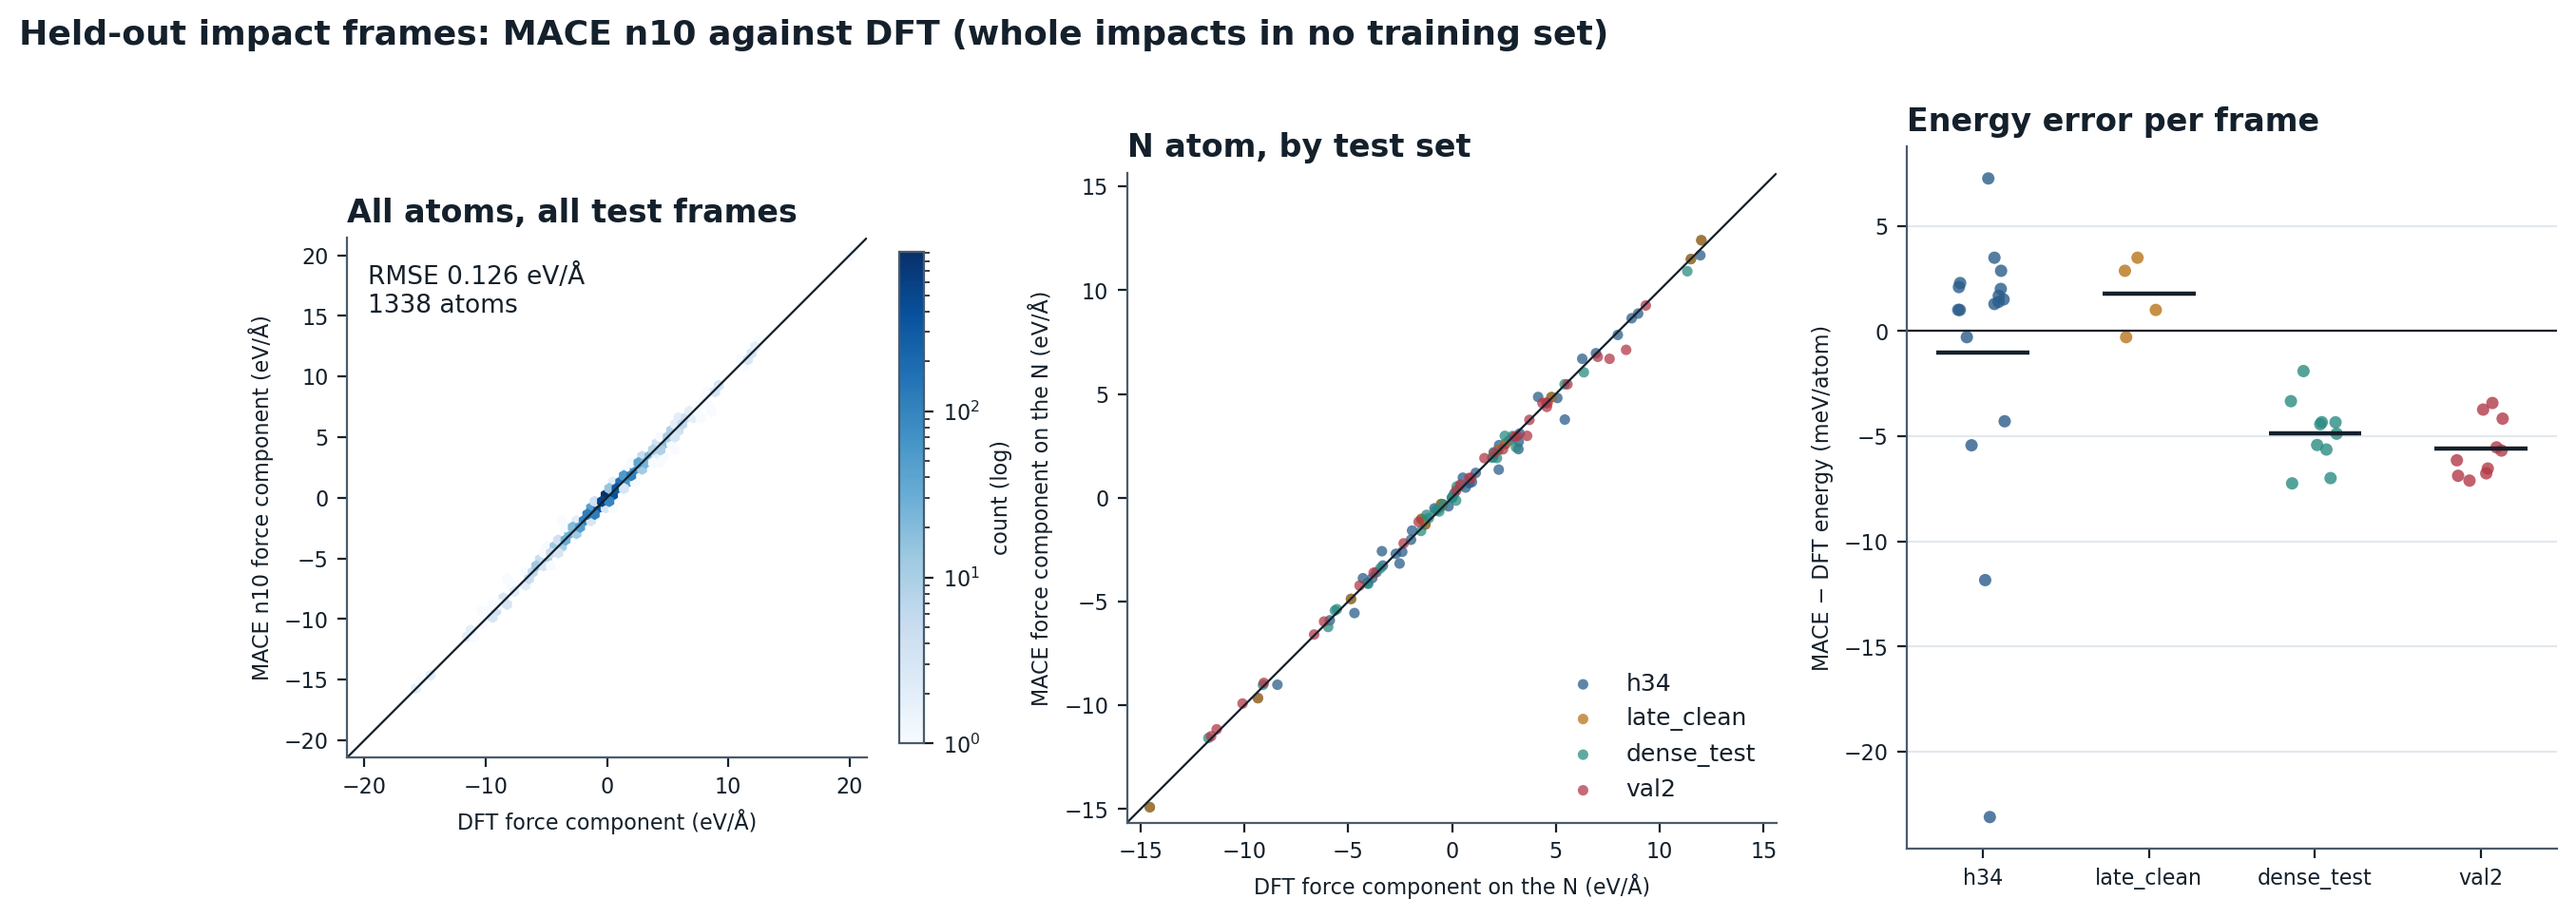
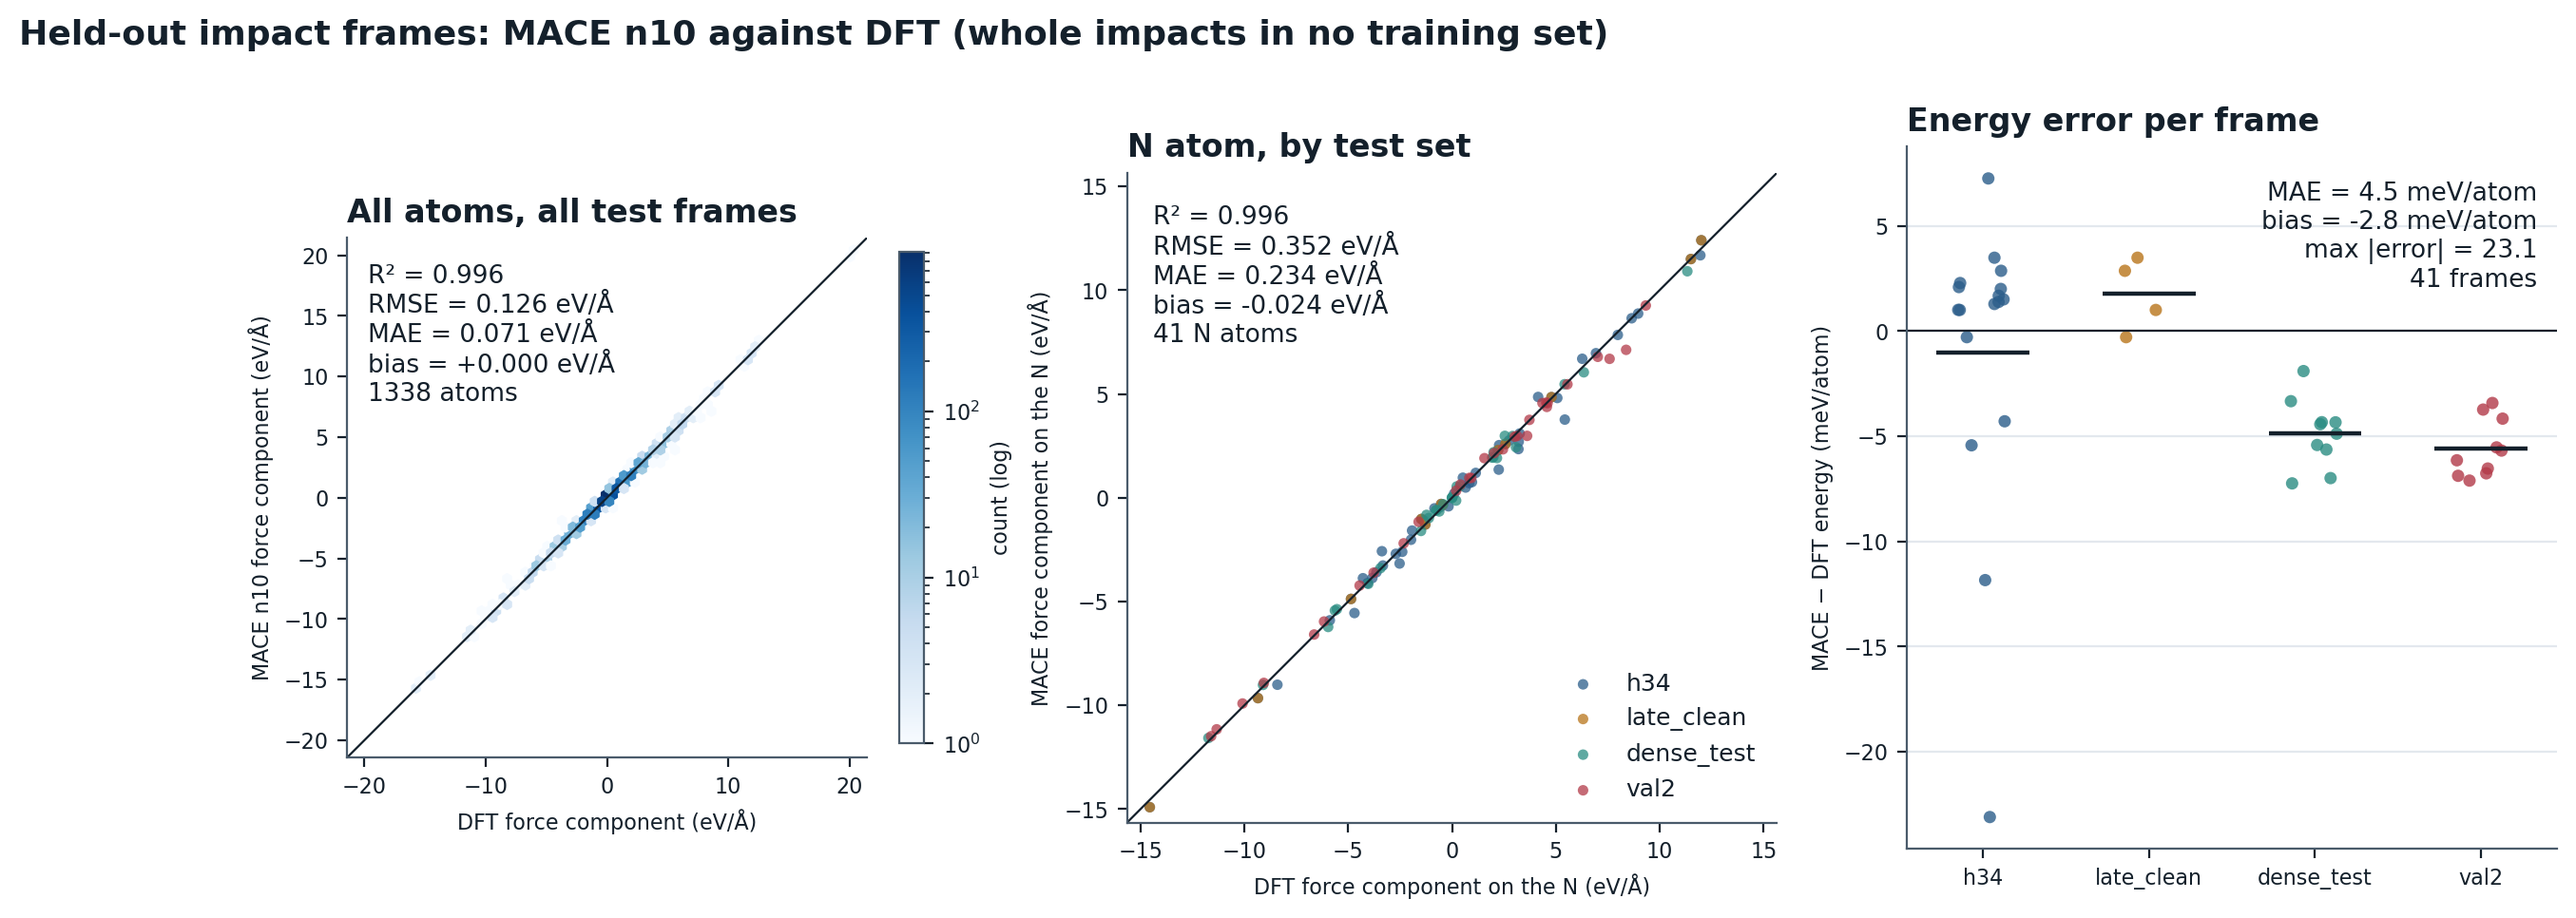
Add R2, RMSE, MAE and bias to the parity figure; correct Figure 8 text and describe the test frames

Changed region(s): [[0.124, 0.2795, 0.248, 0.4348], [0.4339, 0.2174, 0.5579, 0.3727], [0.8679, 0.1863, 0.9919, 0.3106]]

diff --git a/stageB_mace_training/make_figs_data.py b/stageB_mace_training/make_figs_data.py
@@ -93,7 +93,8 @@ ax.set_xlim(-lim, lim); ax.set_ylim(-lim, lim); ax.set_aspect("equal")
 rm = np.sqrt(((fM - fD) ** 2).mean())
 ax.set_xlabel("DFT force component (eV/Å)"); ax.set_ylabel(f"MACE {a.tag} force component (eV/Å)")
 ax.set_title("All atoms, all test frames", loc="left", fontsize=12, fontweight="bold")
-ax.text(0.04, 0.95, f"RMSE {rm:.3f} eV/Å\n{len(fD)//3} atoms", transform=ax.transAxes, va="top", fontsize=9.5)
+r2 = 1 - ((fM - fD) ** 2).sum() / ((fD - fD.mean()) ** 2).sum()
+ax.text(0.04, 0.95, f"R² = {r2:.3f}\nRMSE = {rm:.3f} eV/Å\nMAE = {np.abs(fM - fD).mean():.3f} eV/Å\nbias = {(fM - fD).mean():+.3f} eV/Å\n{len(fD)//3} atoms", transform=ax.transAxes, va="top", fontsize=9.5)
 fig.colorbar(hb, ax=ax, label="count (log)", shrink=0.7)
 
 ax = axs[1]
@@ -111,6 +112,9 @@ ax.set_xlim(-lim, lim); ax.set_ylim(-lim, lim); ax.set_aspect("equal")
 ax.set_xlabel("DFT force component on the N (eV/Å)"); ax.set_ylabel("MACE force component on the N (eV/Å)")
 ax.set_title("N atom, by test set", loc="left", fontsize=12, fontweight="bold")
 ax.legend(frameon=False, fontsize=9, loc="lower right")
+dN = ys - xs
+r2N = 1 - (dN ** 2).sum() / ((xs - xs.mean()) ** 2).sum()
+ax.text(0.04, 0.95, f"R² = {r2N:.3f}\nRMSE = {np.sqrt((dN ** 2).mean()):.3f} eV/Å\nMAE = {np.abs(dN).mean():.3f} eV/Å\nbias = {dN.mean():+.3f} eV/Å\n{len(xs)//3} N atoms", transform=ax.transAxes, va="top", fontsize=9.5)
 
 ax = axs[2]
 for k, name in enumerate(SETS):
@@ -122,6 +126,8 @@ ax.axhline(0, color=INK, lw=0.8)
 ax.set_xticks(range(len(SETS))); ax.set_xticklabels(list(SETS))
 ax.set_ylabel("MACE − DFT energy (meV/atom)")
 ax.set_title("Energy error per frame", loc="left", fontsize=12, fontweight="bold")
+dE = np.array([(r["eM"] - r["eD"]) / r["n"] * 1000 for r in rows])
+ax.text(0.97, 0.95, f"MAE = {np.abs(dE).mean():.1f} meV/atom\nbias = {dE.mean():+.1f} meV/atom\nmax |error| = {np.abs(dE).max():.1f}\n{len(dE)} frames", transform=ax.transAxes, va="top", ha="right", fontsize=9.5)
 ax.yaxis.grid(True, color="#e3e8ee"); ax.set_axisbelow(True)
 fig.suptitle(f"Held-out impact frames: MACE {a.tag} against DFT (whole impacts in no training set)", x=0.01, ha="left", fontsize=13, fontweight="bold", y=1.02)
 fig.savefig(out / "fig11_parity.png", dpi=200, bbox_inches="tight"); plt.close(fig)

diff --git a/README.md b/README.md
@@ -99,11 +99,13 @@ Two problems in the data had to be fixed before any model could be trusted.
 
 ### 5.2 How well does the model do on unseen impacts?
 
-Figure 8 compares the final model (n10) with DFT on the 41 held-out frames. Forces on all atoms follow the diagonal over a range of ±20 eV/Å with a pooled RMSE of 0.126 eV/Å (0.09 to 0.15 eV/Å per set), and the forces on the N atom, up to 15 eV/Å, fall on the diagonal too. The energy panel is more informative. Mean absolute errors are 1.9 to 5.6 meV/atom, but they are not random: all frames of dense_test and val2 sit about 5 meV/atom below DFT with little spread, which looks like a roughly constant shift per frame (about 0.25 eV for a sheet of about 50 atoms; check the atom count). A constant shift does not change forces or dynamics, but it does change binding and formation energies, and it is of the same size as the errors in section 5.4. The h34 set has two outliers, at −12 and −23 meV/atom; the larger is about 1 to 1.5 eV for the frame, of the order of the energy errors noted for the late bridge 50 eV frames.
+Figure 8 compares the final model (n10) with DFT on the 41 held-out frames (1338 atoms). Forces on all atoms follow the diagonal over a range of ±20 eV/Å with a pooled RMSE of 0.126 eV/Å, an MAE of 0.071 eV/Å and R² = 0.996 (RMSE 0.09 to 0.15 eV/Å per set). The forces on the N atom, up to 15 eV/Å, fall on the diagonal too, with an RMSE of 0.352 eV/Å and an MAE of 0.234 eV/Å (41 N atoms, 123 components): about three times the all-atom error, on the atom that matters most. R² is 0.996 in both panels only because the forces span ±15 to ±20 eV/Å, so the RMSE is the number to read. The energy panel is more informative. The mean absolute error is 4.5 meV/atom over all frames (1.9 to 5.6 meV/atom per set), with a mean bias of −2.8 meV/atom, but the errors are not random: all frames of dense_test and val2 sit about 5 meV/atom below DFT with little spread, which looks like a roughly constant shift per frame (about 0.15 eV for a frame of 33 atoms, the average of the test frames). A constant shift does not change forces or dynamics, but it does change binding and formation energies, and it is of the same order as the errors in section 5.4. The h34 set has two outliers, at −12 and −23 meV/atom; the larger is about 0.8 eV for an average-sized frame (the atom count of that frame was not checked). Atoms within a frame are not independent and the frames come from a small number of impacts (see below), so these numbers describe these 41 frames only.
 
 ![Figure 8: parity plots](figures/fig11_parity.png)
 
-*Figure 8. Parity plots of MACE n10 against DFT on held-out impact frames. Left: force components of all atoms. Middle: force components of the N atom, by test set. Right: energy error per frame (bars: set means).*
+*Figure 8. Parity plots of MACE n10 against DFT on held-out impact frames. Left: force components of all 1338 atoms in the 41 frames (R² = 0.996, RMSE 0.126 eV/Å, MAE 0.071, bias 0.000). Middle: force components of the 41 N atoms, by test set (R² = 0.996, RMSE 0.352 eV/Å, MAE 0.234, bias −0.024). Right: energy error per frame (MAE 4.5 meV/atom, bias −2.8; largest error 23.1 meV/atom, in h34; bars: set means). R² is high because the force components span about ±15 eV/Å, so read the RMSE. Atoms within a frame are not independent, so the numbers describe these 41 frames only.*
+
+**What the test frames are.** The held-out set h34 holds the labelled frames from runs 3 and 4 of every case: 17 frames from 9 distinct impacts (top site at 20, 30 and 50 eV, runs 3 and 4; bridge at 30 eV, runs 3 and 4; bridge at 50 eV, run 3 only). Runs of the same case differ in a random shift of the impact point, up to ±0.15 Å in x and y. Frames were taken from the stored MD trajectories at 30 to 280 fs into the run, at chosen delays after the closest approach, so they test the collision and the damaged sheet that follows. Before the DFT calculation, carbon atoms that had been sputtered or left isolated (more than 2.3 Å from any other atom, or more than 7 Å from the sheet plane) were removed, because free carbon atoms are magnetic in DFT and break SCF convergence, and an N further than 7 Å from the sheet was moved to 7 Å. Frames with a C-N distance below 1.1 Å or a C-C distance below 1.0 Å were not labelled. The test therefore covers the sheet without its ejected atoms, and contains no very close contacts. Thirteen of the 17 frames are top-site impacts, the site where the model extrapolates below 1.1 Å, so the h34 error is mostly a top-site error.
 
 Figure 9 shows the force error on the N atom for the five models on four test sets, all made of whole impacts.
 
